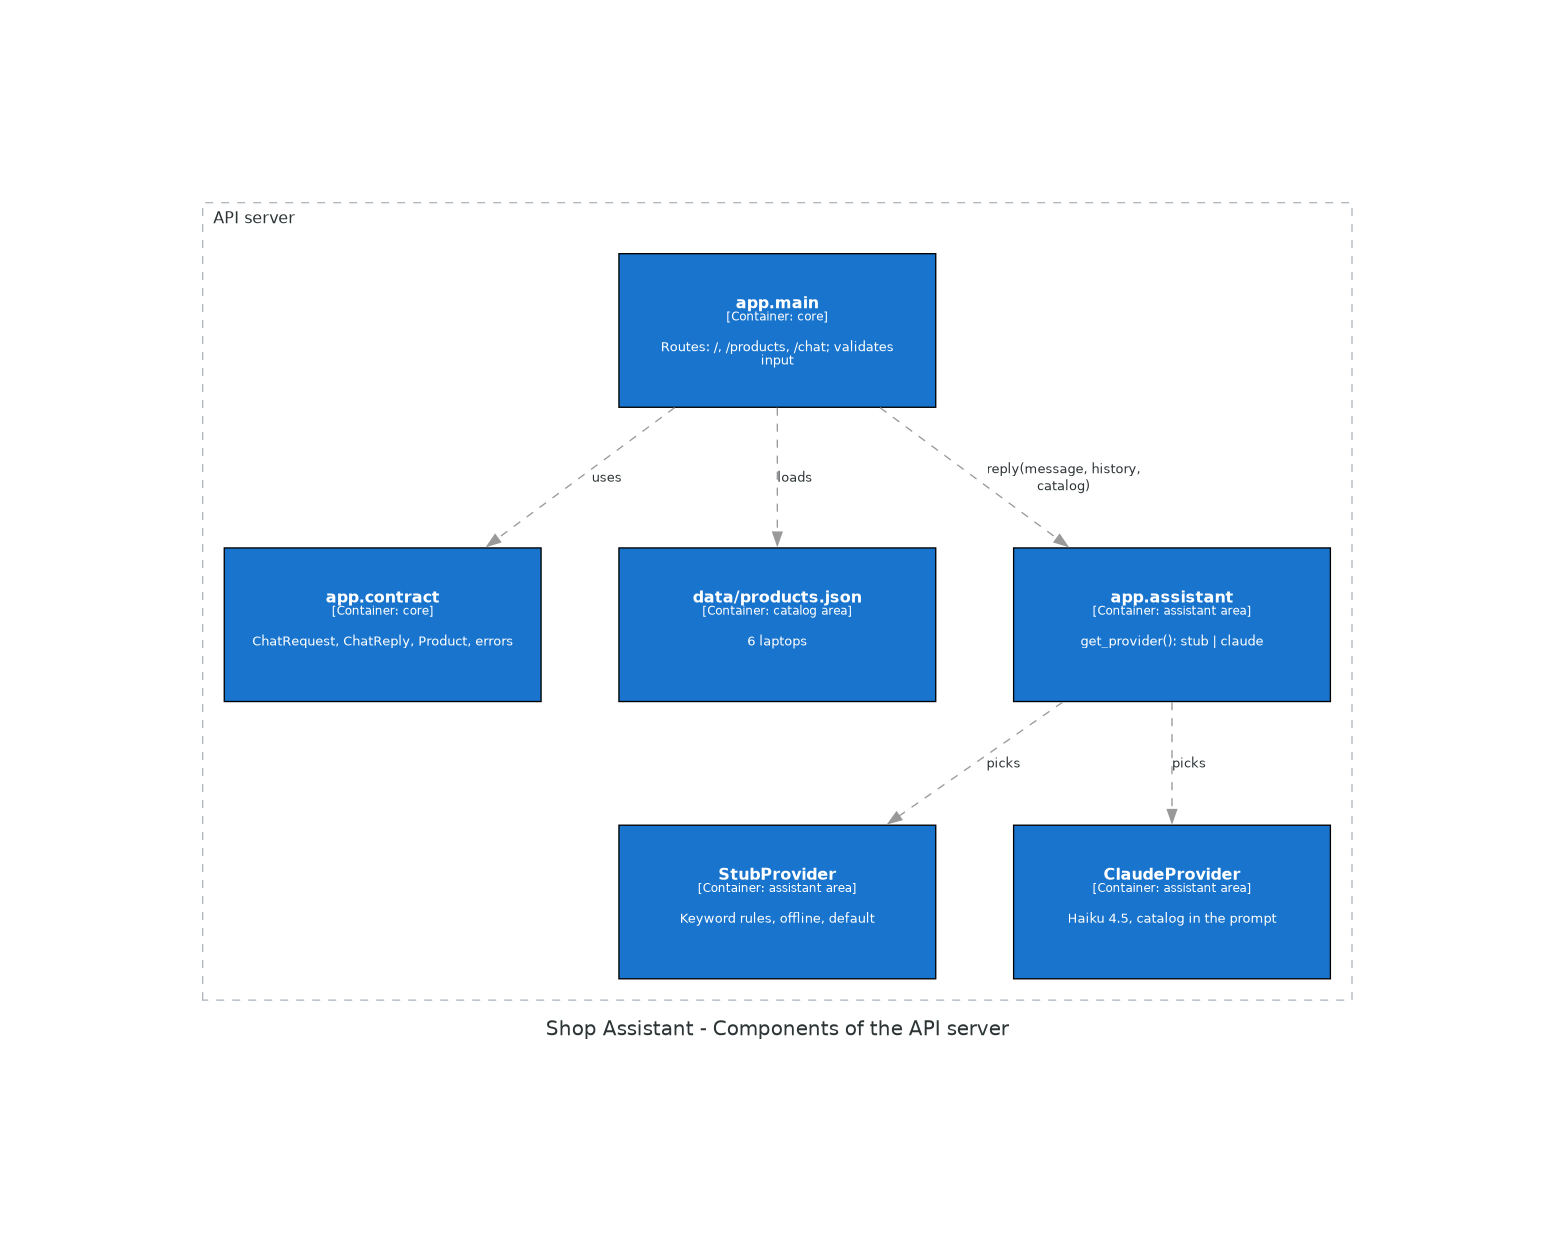
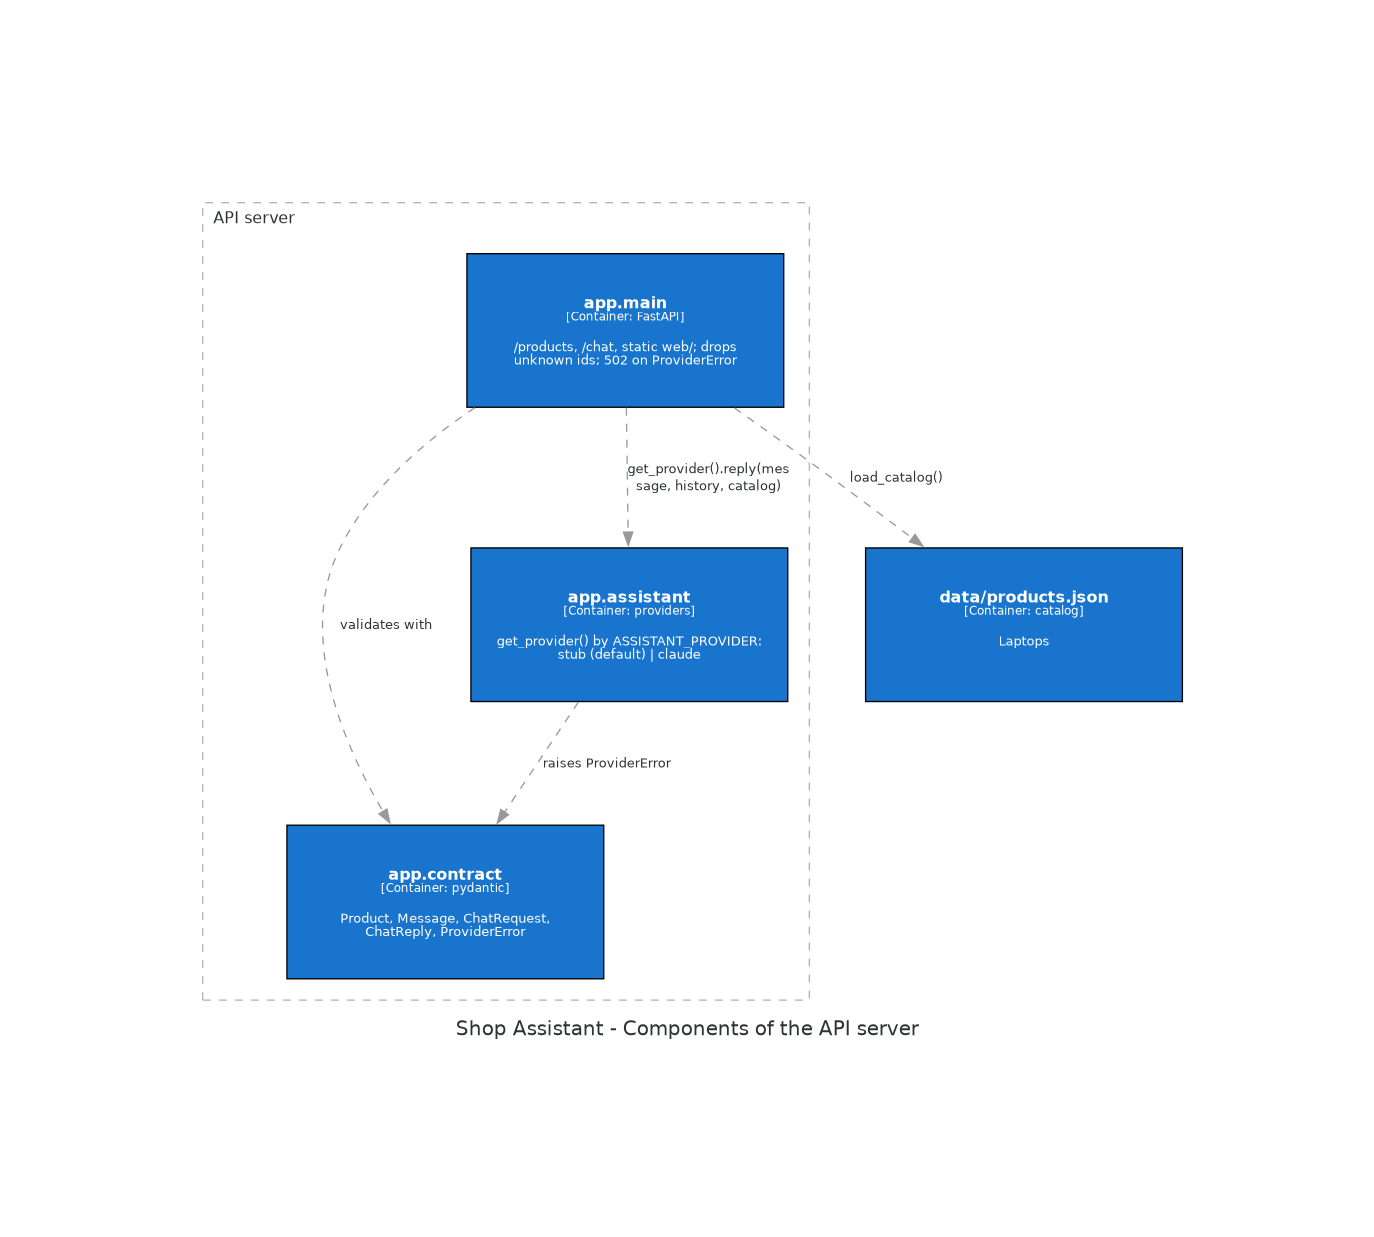
docs: C4 levels 1-4 redrawn from the merged code (#9)

diff --git a/docs/architecture/c4.py b/docs/architecture/c4.py
@@ -1,0 +1,96 @@
+# /// script
+# requires-python = ">=3.11"
+# dependencies = ["diagrams"]
+# ///
+"""C4 diagrams for Shop Assistant, levels 1-4, drawn from the merged code."""
+
+import shutil
+import sys
+from functools import partial
+from pathlib import Path
+
+from diagrams import Diagram
+from diagrams.c4 import Container, Person, Relationship, System, SystemBoundary
+
+Container, Person, System = (partial(f, width="3.3") for f in (Container, Person, System))
+
+SYSTEM = "Shop Assistant"
+OUT = Path(__file__).parent
+GRAPH = {"splines": "spline", "nodesep": "0.8", "ranksep": "1.1"}
+
+
+def draw(level, title):
+    return Diagram(f"{SYSTEM} - {title}", filename=str(OUT / f"c4_{level}"), outformat="png",
+                   show=False, direction="TB", graph_attr=GRAPH)
+
+
+def context():
+    with draw("context", "System Context"):
+        user = Person("Shopper", "Wants one clear laptop recommendation")
+        system = System(SYSTEM, "Laptop product page with an AI chat that recommends from the catalog")
+        claude = System("Anthropic API", "Claude Haiku 4.5 answers from the catalog", external=True)
+        user >> Relationship("browses, asks questions") >> system
+        system >> Relationship("HTTPS, only when ASSISTANT_PROVIDER=claude") >> claude
+
+
+def container():
+    with draw("container", "Containers"):
+        user = Person("Shopper", "")
+        claude = System("Anthropic API", "LLM", external=True)
+        with SystemBoundary(SYSTEM):
+            page = Container("Web page", "HTML/CSS/JS in web/", "Product grid + chat widget (app.js)")
+            api = Container("API server", "FastAPI app.main, uv", "GET /products, POST /chat; mounts web/ at /")
+            catalog = Container("Catalog", "data/products.json", "Laptops, read on every request")
+        user >> Relationship("browser") >> page
+        page >> Relationship("fetch GET /products, POST /chat -> {reply, product_ids, provider}") >> api
+        api >> Relationship("load_catalog()") >> catalog
+        api >> Relationship("messages.create") >> claude
+
+
+def component():
+    with draw("component", "Components of the API server"):
+        catalog = Container("data/products.json", "catalog", "Laptops")
+        with SystemBoundary("API server"):
+            main = Container("app.main", "FastAPI", "/products, /chat, static web/; drops unknown ids; 502 on ProviderError")
+            contract = Container("app.contract", "pydantic", "Product, Message, ChatRequest, ChatReply, ProviderError")
+            assistant = Container("app.assistant", "providers", "get_provider() by ASSISTANT_PROVIDER: stub (default) | claude")
+        main >> Relationship("validates with") >> contract
+        main >> Relationship("load_catalog()") >> catalog
+        main >> Relationship("get_provider().reply(message, history, catalog)") >> assistant
+        assistant >> Relationship("raises ProviderError") >> contract
+
+
+def code():
+    with draw("code", "Code"):
+        claude_api = System("Anthropic API", "claude-haiku-4-5-20251001", external=True)
+        with SystemBoundary("app.main"):
+            chat = Container("chat(req)", "POST /chat", "catalog -> provider.reply -> filter known ids -> ChatReply")
+            products = Container("products()", "GET /products", "returns load_catalog()")
+            load = Container("load_catalog()", "function", "data/products.json, [] if missing")
+        with SystemBoundary("app.contract"):
+            req = Container("ChatRequest", "BaseModel", "message 1-500 chars, history <= 10 Message")
+            reply = Container("ChatReply", "BaseModel", "reply, product_ids, provider")
+            err = Container("ProviderError", "Exception", "-> 502 {error: provider_failed}")
+        with SystemBoundary("app.assistant"):
+            get = Container("get_provider()", "function", "ASSISTANT_PROVIDER: stub | claude, else ValueError")
+            stub = Container("StubProvider", "class", "reply(): keyword rules (under £N, travel, battery, budget)")
+            claude = Container("ClaudeProvider", "class", "reply(): catalog in system prompt, parses JSON")
+        chat >> Relationship("takes") >> req
+        chat >> Relationship("returns") >> reply
+        chat >> Relationship("calls") >> load
+        products >> Relationship("calls") >> load
+        chat >> Relationship("calls") >> get
+        get >> Relationship("returns") >> stub
+        get >> Relationship("returns") >> claude
+        claude >> Relationship("raises") >> err
+        claude >> Relationship("messages.create") >> claude_api
+
+
+LEVELS = {n: globals()[n] for n in ("context", "container", "component", "code") if n in globals()}
+
+if __name__ == "__main__":
+    if not shutil.which("dot"):
+        sys.exit("c4: Graphviz is not installed (no `dot` on PATH). Run: sudo apt install -y graphviz")
+    for name in sys.argv[1:] or LEVELS:
+        LEVELS[name]()
+        print(OUT / f"c4_{name}.png")

diff --git a/README.md b/README.md
@@ -237,3 +237,5 @@ Every one of these happened for real while this kit was tested.
 ![C4 container](docs/architecture/c4_container.png)
 
 ![C4 component](docs/architecture/c4_component.png)
+
+![C4 code](docs/architecture/c4_code.png)
